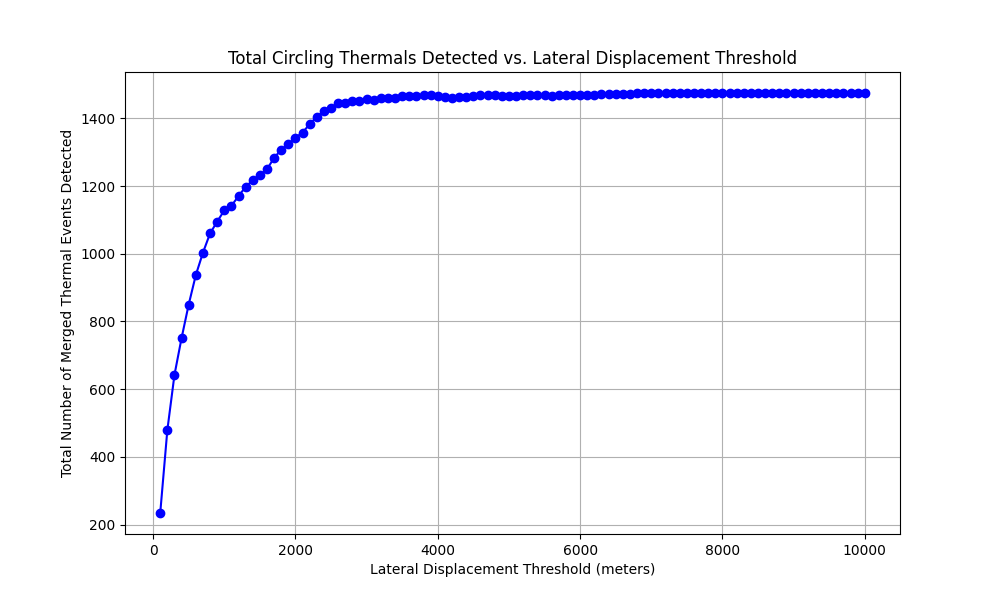
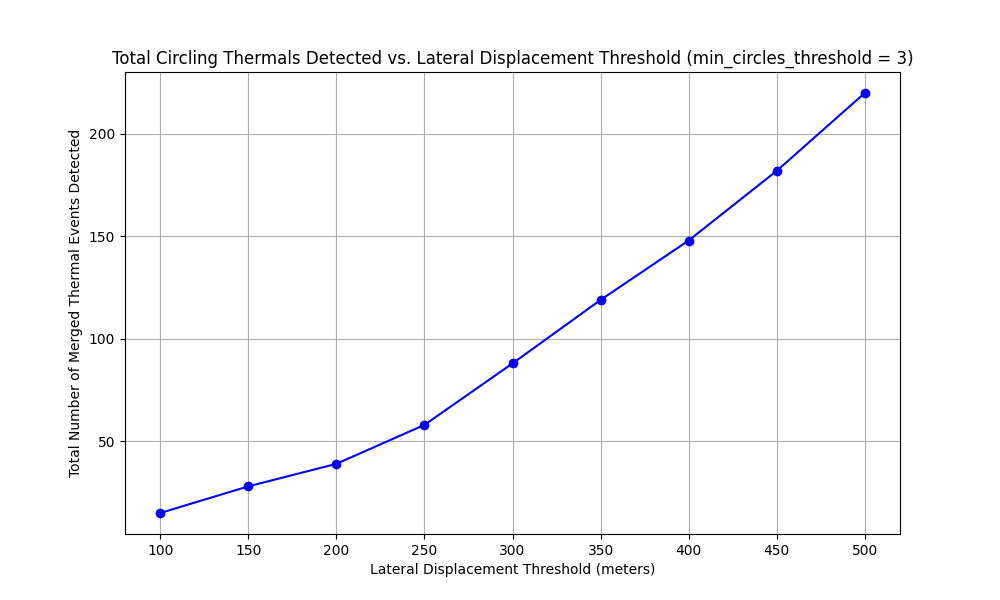
plot circle thermal count vs lateral displacement (min circles 3)

diff --git a/scratch1.py b/scratch1.py
@@ -8,7 +8,7 @@ max_gap_seconds = 20  # seconds, maximum time gap to consider two segments part 
 altitude_change_threshold = 50  # meters, minimum altitude gain in a time window to be considered lift
 time_window = 10  # seconds, the time window for checking altitude change
 max_merge_distance_km = 20  # kilometers, maximum distance to merge closely spaced thermals
-# min_number_of_circles will be controlled by the loop below for the analysis.
+min_circles_threshold = 3  # The minimum number of full 360-degree circles to qualify as a thermal
 circling_distance_threshold = 300  # meters, max displacement in the time window for a circling thermal
 
 
@@ -83,7 +83,7 @@ def time_to_seconds(time_str):
         return None
 
 
-def is_circling(segment_points, min_number_of_circles):
+def is_circling(segment_points, min_circles_threshold):
     """
     Checks if a segment of flight data shows evidence of circling by summing the absolute
     heading changes. This is more robust than checking for consistent turns.
@@ -107,11 +107,10 @@ def is_circling(segment_points, min_number_of_circles):
         total_heading_change += abs(delta_heading)
         last_heading = current_heading
 
-    # The core change to use the new parameter in the loop.
-    return (total_heading_change / 360.0) >= min_number_of_circles
+    return (total_heading_change / 360) >= min_circles_threshold
 
 
-def find_thermals_and_sustained_lift(filepath, min_number_of_circles, circling_distance_threshold):
+def find_thermals_and_sustained_lift(filepath, circling_distance_threshold, min_circles_threshold):
     """
     Parses a single IGC file to find thermals (circling) and sustained lift (linear).
     Returns a list of circling thermal events and straight-flying thermals.
@@ -182,7 +181,7 @@ def find_thermals_and_sustained_lift(filepath, min_number_of_circles, circling_d
                     )
 
                     if is_circling(segment_points,
-                                   min_number_of_circles) and lateral_displacement < circling_distance_threshold:
+                                   min_circles_threshold) and lateral_displacement < circling_distance_threshold:
                         circling_thermals.append(segment)
                     else:
                         straight_thermals.append(segment)
@@ -213,7 +212,7 @@ def find_thermals_and_sustained_lift(filepath, min_number_of_circles, circling_d
                 )
 
                 if is_circling(segment_points,
-                               min_number_of_circles) and lateral_displacement < circling_distance_threshold:
+                               min_circles_threshold) and lateral_displacement < circling_distance_threshold:
                     circling_thermals.append(segment)
                 else:
                     straight_thermals.append(segment)
@@ -261,9 +260,9 @@ def merge_thermals(thermals, max_merge_distance_km):
 
 def main():
     """
-    Main function to analyze the effect of a min_number_of_circles on thermal count.
+    Main function to analyze the effect of a circling_distance_threshold on thermal count.
     It plots the total number of circling thermals detected across all files
-    against a range of minimum number of circles.
+    against a range of circling distances.
     """
     script_dir = os.path.dirname(os.path.abspath(__file__))
     folder_path = os.path.join(script_dir, "igc")
@@ -278,39 +277,40 @@ def main():
         print(f"No IGC files found in the folder: {folder_path}. Please check the path and try again.")
         return
 
-    min_circles_to_test = np.arange(0.5, 5.5, 0.5)
+    circling_distances_to_test = np.arange(100, 501, 50)
     total_circling_thermal_counts = []
 
-    print(f"Starting analysis of circling thermal count vs. minimum circles...")
+    print(f"Starting analysis of circling thermal count vs. lateral displacement threshold...")
     print(
-        f"Parameters: altitude_change_threshold={altitude_change_threshold}m, time_window={time_window}s, max_merge_distance_km={max_merge_distance_km}km, circling_distance_threshold={circling_distance_threshold}m")
+        f"Parameters: min_circles_threshold={min_circles_threshold} circles, altitude_change_threshold={altitude_change_threshold}m, time_window={time_window}s, max_merge_distance_km={max_merge_distance_km}km")
 
-    for min_circles in min_circles_to_test:
-        total_thermals_for_circles = 0
+    for circling_distance in circling_distances_to_test:
+        total_thermals_for_distance = 0
         for filename in igc_files:
             circling_thermals, _ = find_thermals_and_sustained_lift(
                 filename,
-                min_number_of_circles=min_circles,
-                circling_distance_threshold=circling_distance_threshold
+                circling_distance_threshold=circling_distance,
+                min_circles_threshold=min_circles_threshold
             )
             merged_thermals = merge_thermals(circling_thermals, max_merge_distance_km=max_merge_distance_km)
-            total_thermals_for_circles += len(merged_thermals)
+            total_thermals_for_distance += len(merged_thermals)
             print(f"  - Processed {os.path.basename(filename)}: Found {len(merged_thermals)} thermals.")
 
-        total_circling_thermal_counts.append(total_thermals_for_circles)
+        total_circling_thermal_counts.append(total_thermals_for_distance)
         print(
-            f"\nMin Circles Threshold {min_circles}: Detected a total of {total_thermals_for_circles} circling thermals")
+            f"\nCircling Distance Threshold {circling_distance}m: Detected a total of {total_thermals_for_distance} circling thermals")
 
     # Plot the results
     plt.figure(figsize=(10, 6))
-    plt.plot(min_circles_to_test, total_circling_thermal_counts, marker='o', linestyle='-', color='b')
-    plt.title('Total Circling Thermals Detected vs. Minimum Circles Threshold')
-    plt.xlabel('Minimum Number of Circles')
+    plt.plot(circling_distances_to_test, total_circling_thermal_counts, marker='o', linestyle='-', color='b')
+    plt.title(
+        f'Total Circling Thermals Detected vs. Lateral Displacement Threshold (min_circles_threshold = {min_circles_threshold})')
+    plt.xlabel('Lateral Displacement Threshold (meters)')
     plt.ylabel('Total Number of Merged Thermal Events Detected')
     plt.grid(True)
 
-    plt.savefig('thermal_analysis_circles.png')
-    print("\nAnalysis complete. The plot has been saved as 'thermal_analysis_circles.png'.")
+    plt.savefig('thermal_analysis.png')
+    print("\nAnalysis complete. The plot has been saved as 'thermal_analysis.png'.")
     plt.show()
 
 
